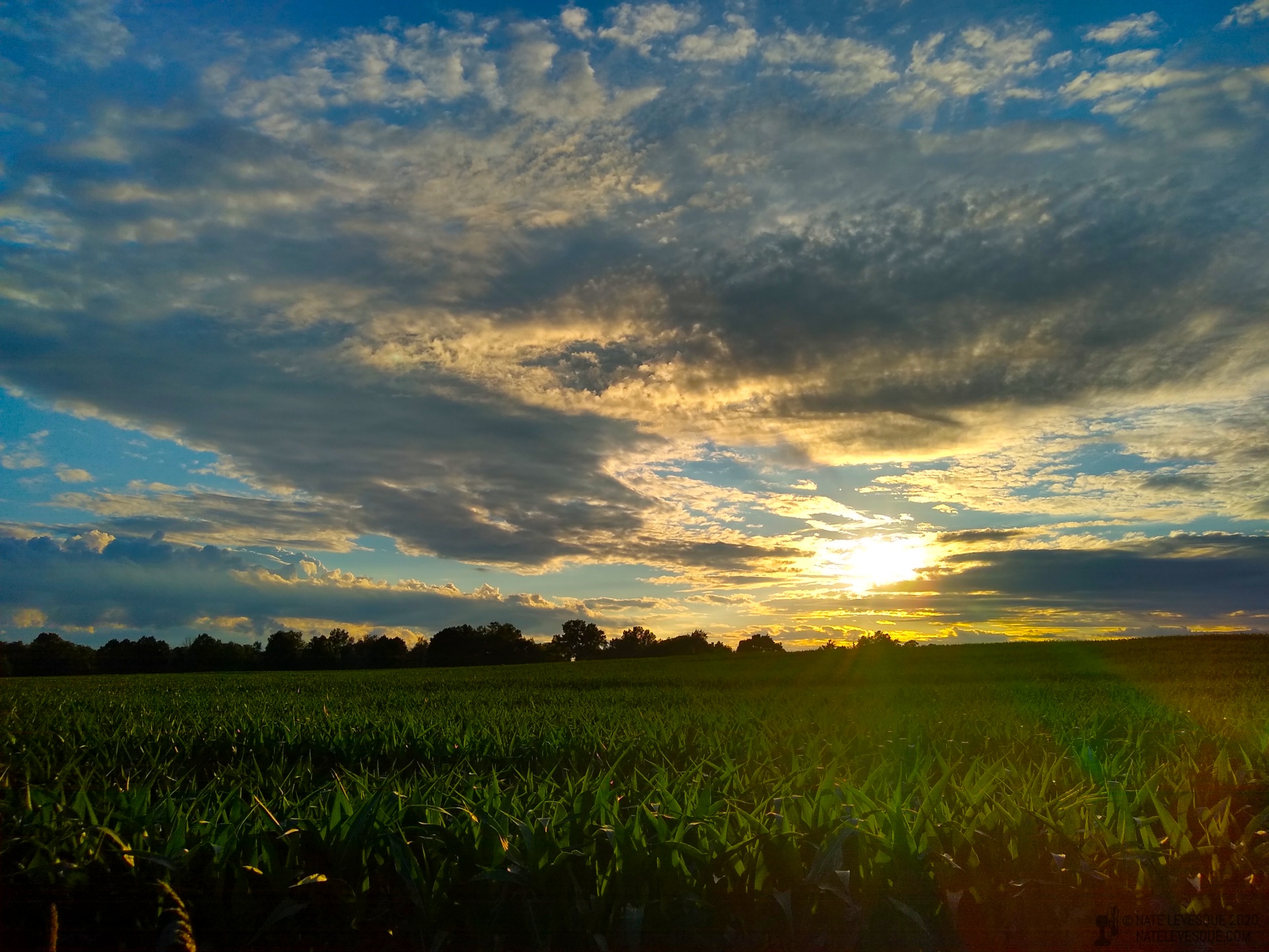
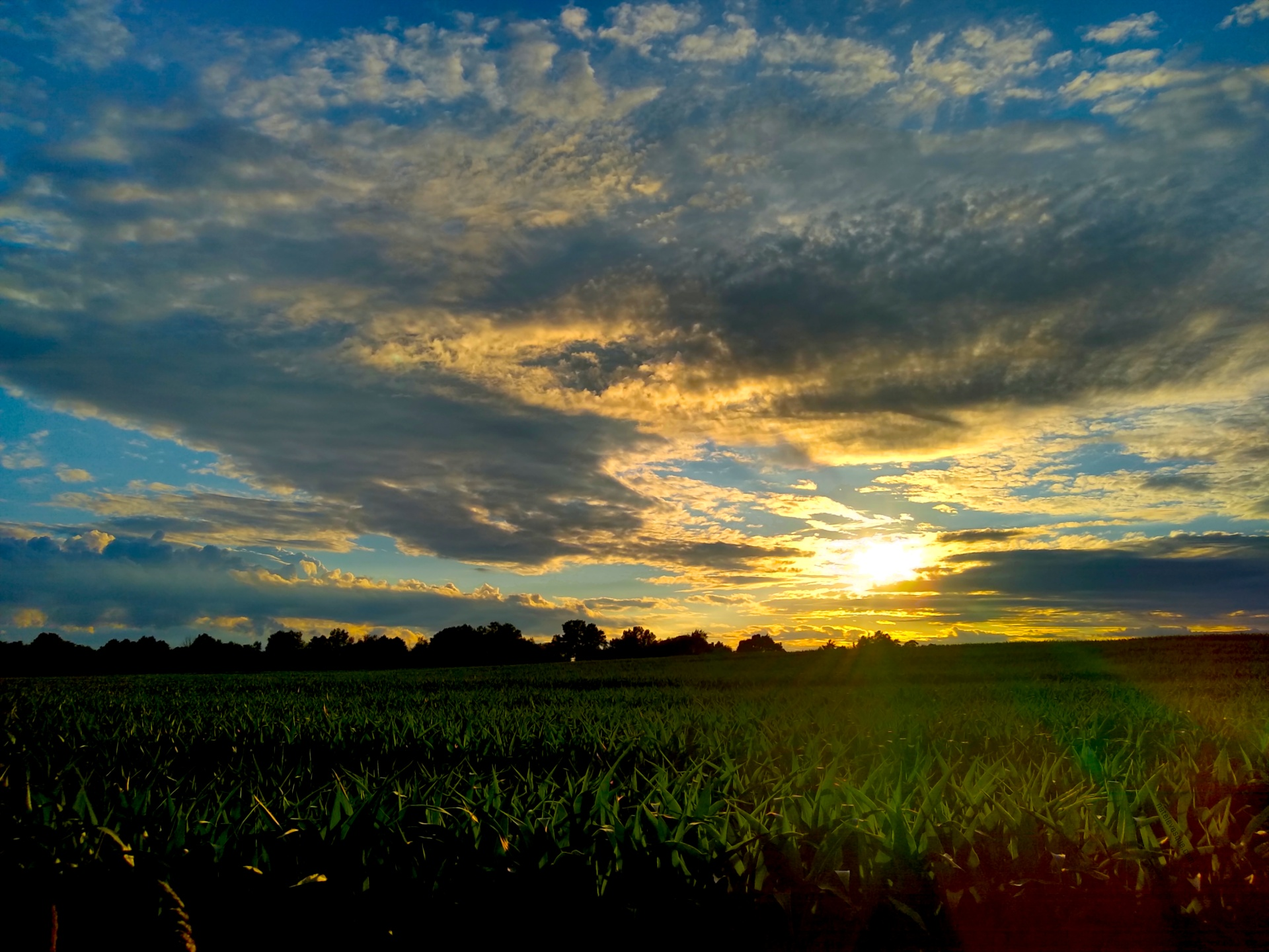
add simulated sky

diff --git a/assets/js/modules/SimulatedSky.js b/assets/js/modules/SimulatedSky.js
@@ -1,0 +1,152 @@
+if (typeof window.cytoplasm == 'undefined') {
+  /**
+   * Compatibility junk
+   */
+  class _Applet {
+    // eslint-disable-next-line require-jsdoc
+    constructor(props = {}) {
+      this.props = props;
+      this.state = {};
+    }
+  }
+  window.cytoplasm = {};
+  window.cytoplasm.Applet = _Applet;
+}
+
+/**
+ * Simulated sky component
+ */
+export class SimulatedSky extends window.cytoplasm.Applet {
+  /**
+   * get an array of image paths for the sky
+   * @return {string[]}
+   */
+  getLayers_() {
+    const obj = this.props;
+
+    let dusk = obj.hasOwnProperty('dusk') ? obj.dusk : false;
+    let day = obj.hasOwnProperty('day') ? obj.day : false;
+
+    const meteors = obj.hasOwnProperty('meteors') ? obj.meteors : false;
+    const eclipse = obj.hasOwnProperty('eclipse') ? obj.eclipse : false;
+    const moon = obj.hasOwnProperty('moon') ? obj.moon : true;
+
+    const now = obj.hasOwnProperty('date') ? obj.date : new Date();
+    const randNum = Math.floor((Math.random() * 15) + 1);
+
+    if (obj.autotime) {
+      if (now.getHours() < 18 && now.getHours() > 7) {
+        day = true;
+      } else if (now.getHours() < 19 && now.getHours() >=18) {
+        dusk = true;
+      } else {
+        // night
+      }
+    }
+
+    const elements = [];
+
+    if (day && eclipse) {
+      elements.push('/images/now-sky-parts/solar-eclipse-sky.webp');
+      elements.push('/images/now-sky-parts/solar-eclipse-fg.webp');
+      elements.push('/images/now-sky-parts/sun.webp');
+      elements.push('/images/now-sky-parts/eclipse.webp');
+    } else if (day && !dusk) {
+      elements.push('/images/now-sky-parts/day-sky.webp');
+      elements.push('/images/now-sky-parts/sun.webp');
+      elements.push('/images/now-sky-parts/day-fg.webp');
+      elements.push('/images/now-sky-parts/normal-shadows.webp');
+    } else if (dusk) {
+      elements.push('/images/now-sky-parts/solar-eclipse-sky.webp');
+      elements.push('/images/now-sky-parts/sunset-sun.webp');
+      elements.push('/images/now-sky-parts/solar-eclipse-fg.webp');
+      elements.push('/images/now-sky-parts/long-shadows.webp');
+    } else if (!day && eclipse) {
+      elements.push('/images/now-sky-parts/lunar-eclipse-sky.webp');
+      elements.push('/images/now-sky-parts/moon.webp');
+      elements.push('/images/now-sky-parts/eclipse.webp');
+      elements.push('/images/now-sky-parts/lunar-eclipse-fg.webp');
+      elements.push('/images/now-sky-parts/stars.webp');
+
+      if (meteors) {
+        elements.push('/images/now-sky-parts/meteors.webp');
+      }
+    } else {
+      elements.push('/images/now-sky-parts/night-sky.webp');
+      elements.push('/images/now-sky-parts/night-fg.webp');
+      if (moon) {
+        elements.push('/images/now-sky-parts/moon.webp');
+        elements.push('/images/now-sky-parts/normal-shadows.webp');
+      }
+      if (meteors) {
+        elements.push('/images/now-sky-parts/meteors.webp');
+      }
+      elements.push('/images/now-sky-parts/stars.webp');
+    }
+
+    if (randNum == 2 || now.getMonth() == 5) {
+      elements.push('/images/now-sky-parts/prop-pride.webp');
+    }
+
+    if (now.getMonth() == 9) {
+      elements.push('/images/now-sky-parts/prop-pumpkin.webp');
+    }
+
+    if (now.getMonth() == 11 || (now.getMonth() == 0 && now.getDate() < 15)) {
+      elements.push('/images/now-sky-parts/prop-holiday-lights.webp');
+    }
+
+    if (now.getDate() === 13 && now.getDay() === 5) {
+      elements.push('/images/now-sky-parts/prop-monolith.webp');
+    }
+
+    if (now.getDate() === 22 && now.getMonth() === 3) {
+      elements.push('/images/now-sky-parts/prop-windfarm.webp');
+    }
+
+    return elements;
+  }
+
+  // eslint-disable-next-line require-jsdoc
+  render() {
+    const layers = this.getLayers_();
+    const elements = [];
+
+    for (let i = 0; i < layers.length; i++) {
+      elements.push(
+          this.buildImageElement_(
+              'stacked-img',
+              layers[i],
+          ),
+      );
+    }
+
+    elements.push(
+        this.buildImageElement_(
+            'today-image-base',
+            '/images/bg-night.webp',
+        ),
+    );
+
+    return window.cytoplasm.createElement(
+        'div',
+        {class: 'simulated-sky', style: 'position:relative; overflow: hidden'},
+        elements,
+    );
+  }
+
+  /**
+   * @param {string} cssClasses
+   * @param {string} src
+   * @return {CytoplasmFragment}
+   */
+  buildImageElement_(cssClasses, src) {
+    return window.cytoplasm.createElement(
+        'img',
+        {
+          class: cssClasses,
+          src: src,
+        },
+    );
+  }
+}

diff --git a/_layouts/strata.html b/_layouts/strata.html
@@ -1,14 +1,16 @@
 {% include strata-head.html %}
 <header id="header"
         {% if page.head-image %}
-        {% if page.hide-head-image %}
+          {% if page.hide-head-image %}
+          {% else %}
+            {% if page.head-image contains '/' %}
+              style="background: linear-gradient( rgba(0, 0, 0, 0.5), rgba(0, 0, 0, 0.9) ), url('{{page.head-image}}') center top no-repeat; background-size: cover;"
+            {% else %}
+              style="background: linear-gradient( rgba(0, 0, 0, 0.5), rgba(0, 0, 0, 0.9) ), url('/images/posts/{{page.head-image}}') center top no-repeat; background-size: cover;"
+            {% endif %}
+          {% endif %}
         {% else %}
-        {% if page.head-image contains '/' %}
-        style="background: linear-gradient( rgba(0, 0, 0, 0.5), rgba(0, 0, 0, 0.9) ), url('{{page.head-image}}') center top no-repeat; background-size: cover;"
-        {% else %}
-        style="background: linear-gradient( rgba(0, 0, 0, 0.5), rgba(0, 0, 0, 0.9) ), url('/images/posts/{{page.head-image}}') center top no-repeat; background-size: cover;"
-        {% endif %}
-        {% endif %}
+          class="default-head-image"
         {% endif %}
         >
 
@@ -30,7 +32,8 @@
 
         </div>
         <!-- Footer -->
-        <footer id="footer">
+        <footer id="footer"
+        >
                 <div class="inner">
                         <ul class="icons">
                                 <li><a href="https://twitter.com/thenaterhood" class="icon brands fa-twitter"><span class="label">Twitter</span></a></li>

diff --git a/_includes/strata-footer.html b/_includes/strata-footer.html
@@ -7,4 +7,37 @@
 <script src="/assets/js/browser.min.js"></script>
 <script src="/assets/js/main.js"></script>
 
+<script type="module">
+    import {SimulatedSky} from "/assets/js/modules/SimulatedSky.js";
+
+    const skyElements = document.getElementsByClassName("default-head-image");
+    if (skyElements.length > 0) {
+      const simSky = new SimulatedSky({'autotime': true});
+      const layers = simSky.getLayers_();
+      layers.reverse();
+      let layerCss = '\
+      background-attachment: scroll;\
+      background-position:top left;\
+      background-size: cover !important;\
+      background-repeat: no-repeat;\
+      background:';
+
+      for (let i = 0; i < layers.length; i++) {
+        layerCss = layerCss + 'url("' + layers[i] + '")'
+
+        if (i < layers.length - 1) {
+          layerCss = layerCss + ",";
+        }
+      }
+
+      for (let i = 0; i < skyElements.length; i++) {
+        const skyEl = skyElements[i];
+        // this is not ideal, but there is no other styling
+        // on this element so it works
+        skyEl.setAttribute("style", layerCss);
+      }
+    }
+
+</script>
+
 </body>

diff --git a/_includes/strata-blog-header.html b/_includes/strata-blog-header.html
@@ -1,10 +1,12 @@
 <header id="header"
         {% if page.head-image %}
-        {% if page.head-image contains '/' %}
-        style="background: linear-gradient( rgba(0, 0, 0, 0.5), rgba(0, 0, 0, 0.9) ), url('{{page.head-image}}') center top no-repeat; background-size: cover;"
+          {% if page.head-image contains '/' %}
+            style="background: linear-gradient( rgba(0, 0, 0, 0.5), rgba(0, 0, 0, 0.9) ), url('{{page.head-image}}') center top no-repeat; background-size: cover;"
+          {% else %}
+            style="background: linear-gradient( rgba(0, 0, 0, 0.5), rgba(0, 0, 0, 0.9) ), url('/images/posts/{{page.head-image}}') center top no-repeat; background-size: cover;"
+          {% endif %}
         {% else %}
-        style="background: linear-gradient( rgba(0, 0, 0, 0.5), rgba(0, 0, 0, 0.9) ), url('/images/posts/{{page.head-image}}') center top no-repeat; background-size: cover;"
-        {% endif %}
+          class="default-head-image"
         {% endif %}
         >
         <div class="inner">
